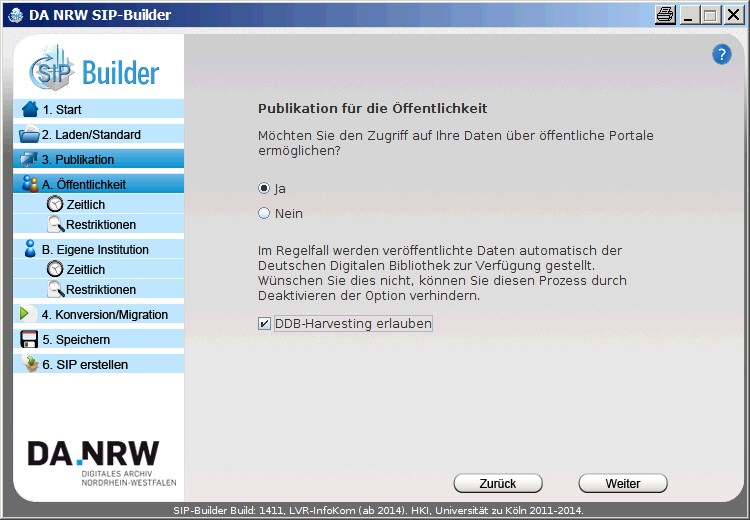
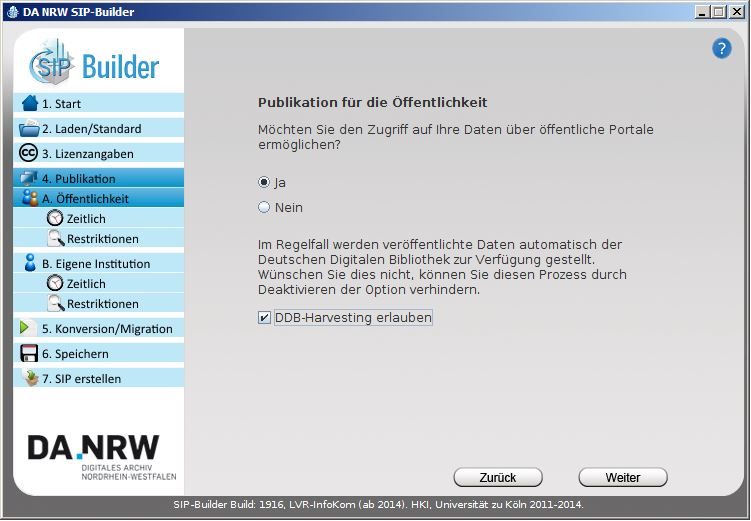
Update SIP-Builder manual

diff --git a/SIP-Builder/src/manual/manual_SIPBuilder.md b/SIP-Builder/src/manual/manual_SIPBuilder.md
@@ -1,7 +1,7 @@
 Anleitung SIP-Builder
 =====================
 
-Bitte verwenden Sie eine Version des SIP-Builders, die mindestens die Build-Nr. __1606__ hat!
+Bitte verwenden Sie eine Version des SIP-Builders, die mindestens die Build-Nr. __1916_ hat!
 
 ## Überblick
 
@@ -61,6 +61,18 @@ Wählen Sie diese Option, um die Standard-Rechteeinstellungen zu wählen:
 * Keine Migrationsbedingungen  
 
 Bei Betätigung des Buttons __Standard__ werden die zuvor gewählten Einstellungen verworfen und durch die Standardwerte ersetzt.
+
+### Lizenzangaben  
+
+![Bild](https://raw.githubusercontent.com/da-nrw/DNSCore/master/SIP-Builder/src/manual/Lizenz.jpg)
+
+Für eine Publikation ist eine Lizenzangabe erforderlich. Die Lizenznangabe darf entweder in den Metadaten stehen oder im SIP-Builder angegeben werden, aber nicht an beiden Stellen gleichzeitig.
+
+__Aus Metadaten__  
+Die Lizenzangaben können aus den Metadaten (z.B. Mets) übernommen werden.
+
+__Im Sip-Builder festlegen__  
+Zur Auswahl stehen unterschiedliche CC-Lizensen und PDM-Lizenz. Diese Lizenzangabe wird in der Premis-Datei vermerkt und bis zum Portal weitergereicht, somit bleiben die angegebenen Quellordner-Daten unverändert. 
 
 ### Publikation
 
